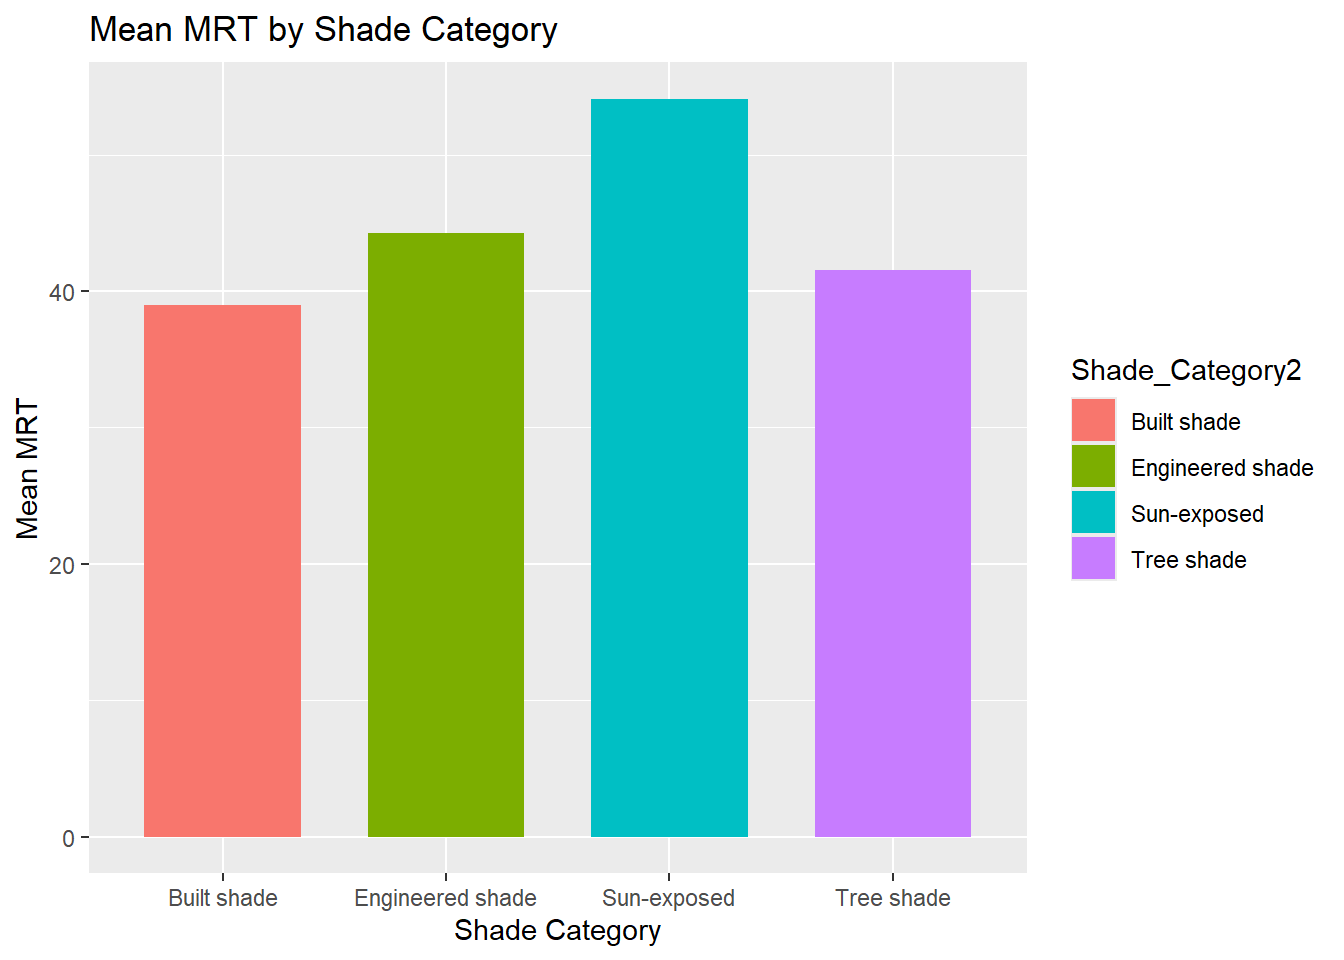
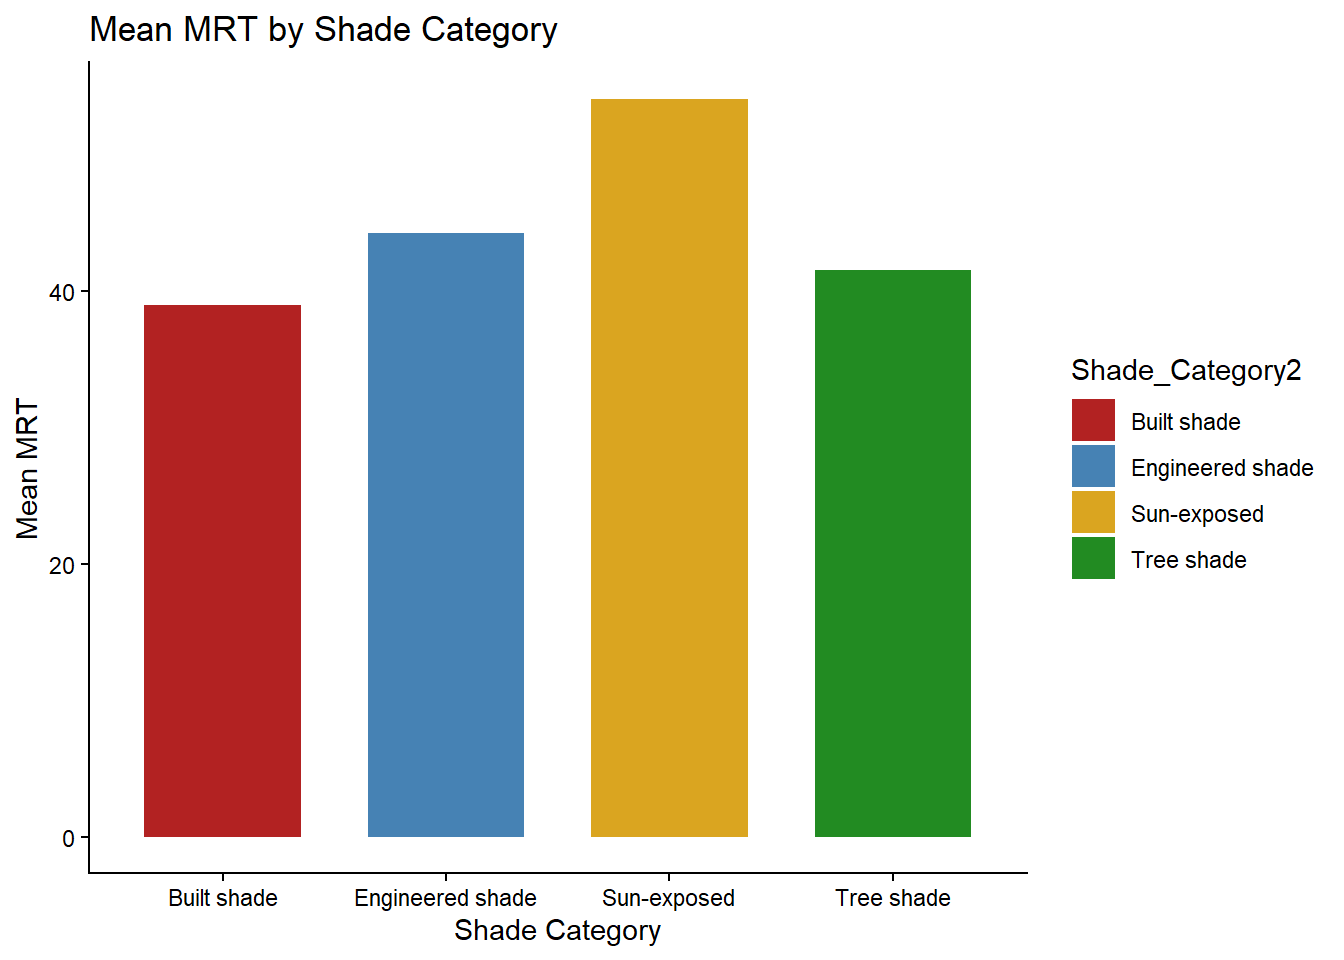
bar chart - add y axis ticks

diff --git a/MaRTy.html b/MaRTy.html
@@ -293,13 +293,20 @@ F-statistic: 31.18 on 9 and 119 DF,  p-value: &lt; 2.2e-16</code></pre>
 <p>Compare MRT across the three main shade categories: Sun-exposed, Tree shade, and Engineered/Built shade.</p>
 <p>Create one figure that clearly communicates the comparison. Choose a visualization that helps answer the question and briefly explain what the figure shows. Your figure might illustrate average MRT by shade category, individual observations, MRT at different times of day, or another useful comparison.</p>
 <div class="cell">
-<div class="code-copy-outer-scaffold"><div class="sourceCode cell-code" id="cb6"><pre class="sourceCode r code-with-copy"><code class="sourceCode r"><span id="cb6-1"><a href="#cb6-1" aria-hidden="true" tabindex="-1"></a><span class="fu">ggplot</span>(marty, <span class="fu">aes</span>(Shade_Category2, MRT_C_detrended, <span class="at">fill =</span> Shade_Category2)) <span class="sc">+</span></span>
+<div class="code-copy-outer-scaffold"><div class="sourceCode cell-code" id="cb6"><pre class="sourceCode r code-with-copy"><code class="sourceCode r"><span id="cb6-1"><a href="#cb6-1" aria-hidden="true" tabindex="-1"></a>bars_MRT <span class="ot">&lt;-</span> <span class="fu">ggplot</span>(marty, <span class="fu">aes</span>(Shade_Category2, MRT_C_detrended, <span class="at">fill =</span> Shade_Category2)) <span class="sc">+</span></span>
 <span id="cb6-2"><a href="#cb6-2" aria-hidden="true" tabindex="-1"></a>    <span class="fu">geom_bar</span>(<span class="at">position=</span><span class="st">'dodge'</span>, <span class="at">stat=</span><span class="st">'summary'</span>, <span class="at">fun=</span><span class="st">'mean'</span>, <span class="at">width =</span> <span class="fl">0.7</span>) <span class="sc">+</span></span>
-<span id="cb6-3"><a href="#cb6-3" aria-hidden="true" tabindex="-1"></a>    <span class="fu">labs</span>(</span>
-<span id="cb6-4"><a href="#cb6-4" aria-hidden="true" tabindex="-1"></a>        <span class="at">title =</span> <span class="st">"Mean MRT by Shade Category"</span>,</span>
-<span id="cb6-5"><a href="#cb6-5" aria-hidden="true" tabindex="-1"></a>        <span class="at">x =</span> <span class="st">"Shade Category"</span>,</span>
-<span id="cb6-6"><a href="#cb6-6" aria-hidden="true" tabindex="-1"></a>        <span class="at">y =</span> <span class="st">"Mean MRT"</span></span>
-<span id="cb6-7"><a href="#cb6-7" aria-hidden="true" tabindex="-1"></a>    )</span></code></pre></div><button title="Copy to Clipboard" class="code-copy-button"><i class="bi"></i></button></div>
+<span id="cb6-3"><a href="#cb6-3" aria-hidden="true" tabindex="-1"></a>    <span class="fu">scale_fill_manual</span>(<span class="at">values =</span> <span class="fu">c</span>(</span>
+<span id="cb6-4"><a href="#cb6-4" aria-hidden="true" tabindex="-1"></a>        <span class="st">"Built shade"</span> <span class="ot">=</span> <span class="st">"firebrick"</span>,</span>
+<span id="cb6-5"><a href="#cb6-5" aria-hidden="true" tabindex="-1"></a>        <span class="st">"Engineered shade"</span> <span class="ot">=</span> <span class="st">"steelblue"</span>,</span>
+<span id="cb6-6"><a href="#cb6-6" aria-hidden="true" tabindex="-1"></a>        <span class="st">"Sun-exposed"</span> <span class="ot">=</span> <span class="st">"goldenrod"</span>,</span>
+<span id="cb6-7"><a href="#cb6-7" aria-hidden="true" tabindex="-1"></a>        <span class="st">"Tree shade"</span> <span class="ot">=</span> <span class="st">"forestgreen"</span></span>
+<span id="cb6-8"><a href="#cb6-8" aria-hidden="true" tabindex="-1"></a>    )) <span class="sc">+</span></span>
+<span id="cb6-9"><a href="#cb6-9" aria-hidden="true" tabindex="-1"></a>    <span class="fu">labs</span>(</span>
+<span id="cb6-10"><a href="#cb6-10" aria-hidden="true" tabindex="-1"></a>        <span class="at">title =</span> <span class="st">"Mean MRT by Shade Category"</span>,</span>
+<span id="cb6-11"><a href="#cb6-11" aria-hidden="true" tabindex="-1"></a>        <span class="at">x =</span> <span class="st">"Shade Category"</span>,</span>
+<span id="cb6-12"><a href="#cb6-12" aria-hidden="true" tabindex="-1"></a>        <span class="at">y =</span> <span class="st">"Mean MRT"</span></span>
+<span id="cb6-13"><a href="#cb6-13" aria-hidden="true" tabindex="-1"></a>    ) </span>
+<span id="cb6-14"><a href="#cb6-14" aria-hidden="true" tabindex="-1"></a>bars_MRT <span class="sc">+</span> <span class="fu">theme_classic</span>()</span></code></pre></div><button title="Copy to Clipboard" class="code-copy-button"><i class="bi"></i></button></div>
 <div class="cell-output-display">
 <div>
 <figure class="figure">
